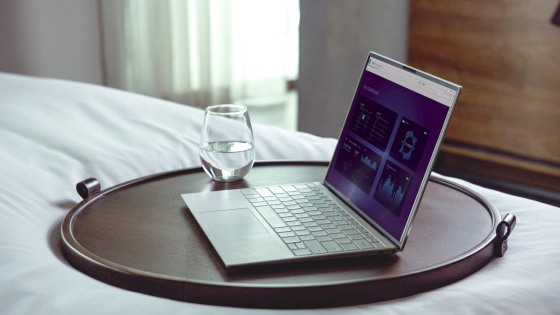
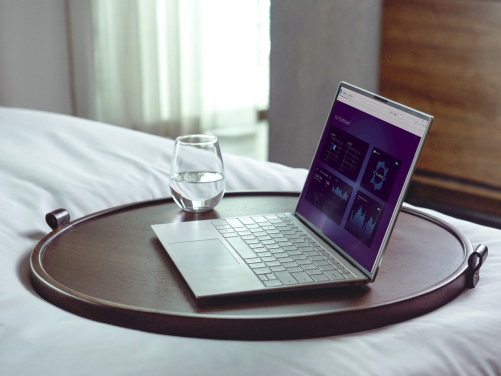
Removes hashtag, readjusts project image aspect ratios

diff --git a/_sass/_landing.scss b/_sass/_landing.scss
@@ -46,12 +46,9 @@
     color: $white;
   }
 
-  > div {
-    width: 40%;
-  }
-
   .project-image {
     max-width: 45%;
+    min-width: 40%;
     display: flex;
     flex-direction: column;
     align-self: center;
@@ -61,7 +58,7 @@
     }
 
     img {
-      max-width: 100%;
+      width: 100%;
     }
     .hashtags {
       background-color: $neon_blue;
@@ -80,8 +77,8 @@
 
   .project-details {
     padding: 1.5rem 0 2.5rem;
-    max-width: 30%;
-    margin-right: 8rem;
+    width: 50%;
+    margin-right: 3rem;
 
     @at-root .featured-projects #{&} {
       max-width: none;
@@ -93,6 +90,7 @@
     font-size: $font_xl;
     line-height: $font_xl * 1.5;
     margin-bottom: 3rem;
+    max-width: 80%;
 
     @at-root .featured-projects #{&} {
       margin-bottom: 0;
@@ -111,7 +109,7 @@
       background-color: $neon_pink;
     }
     .project-details {
-      margin-left: 8rem;
+      margin-left: 5rem;
       margin-right: 0;
     }
   }
@@ -126,7 +124,6 @@
   }
 
   .project-details {
-    max-width: 35%;
     margin-left: 5rem;
   }
 }

diff --git a/_layouts/landing.html b/_layouts/landing.html
@@ -86,12 +86,11 @@ layout: default
   </span>
   <div class="flex-container project justify-around align-center">
     <div class="project-image">
-      <img src="/assets/images/project_img_placeholder.png" />
-      <div class="hashtags">
-        {% for hashtag in featured_project[0].tags %}
-          <span>#{{ hashtag }}</span>
-        {% endfor %}
-      </div>
+      {% if project.image %}
+          <img src="{{ featured_project[0].image }}" />
+      {% else %}
+        <img src="/assets/images/project_img_placeholder.png" />
+      {% endif %}
     </div>
     <div class="project-details">
       <div class="project-authors">
@@ -130,11 +129,6 @@ layout: default
         {% else %}
           <img src="/assets/images/project_img_placeholder.png" />
         {% endif %}
-        <div class="hashtags">
-          {% for hashtag in project.tags %}
-            <span>#{{ hashtag }}</span>
-          {% endfor %}
-        </div>
       </div>
       <div class="project-details">
         <div class="project-authors">

diff --git a/assets/js/randomFeaturedProject.js b/assets/js/randomFeaturedProject.js
@@ -8,6 +8,7 @@ function renderProject(project) {
   featuredContainer.querySelector(".project-brief").innerText = project.brief;
   featuredContainer.querySelector(".project-description").innerText = project.description || "";
   featuredContainer.querySelector(".project-btn").href = project.url;
+  featuredContainer.querySelector(".project-image img").src = project.image || "/assets/images/project_img_placeholder.png";
 
   var authorHTML = "";
   project.authors.forEach((author, index) => {
@@ -24,12 +25,6 @@ function renderProject(project) {
     }
   });
   featuredContainer.querySelector(".project-authors").innerHTML = authorHTML;
-  
-  var hashtagHTML = "";
-  project.tags.forEach(hashtag => {
-    hashtagHTML += '<span>#'+hashtag+'</span>';
-  });
-  featuredContainer.querySelector(".hashtags").innerHTML = hashtagHTML;
 }
 
 window.onload = function() {

diff --git a/_layouts/project.html b/_layouts/project.html
@@ -27,11 +27,6 @@ layout: default
       {% else %}
         <img src="/assets/images/project_img_placeholder.png" />
       {% endif %}
-      <div class="hashtags">
-        {% for hashtag in page.tags %}
-          <span>#{{ hashtag }}</span>
-        {% endfor %}
-      </div>
     </div>
   </div>
   <div class="project-body">

diff --git a/_sass/_typography.scss b/_sass/_typography.scss
@@ -78,7 +78,7 @@ h2 {
   &.project-title {
     color: $neon_pink;
     margin: 1.5rem 0;
-    word-break: break-all;
+    word-break: break-word;
   }
 
   
